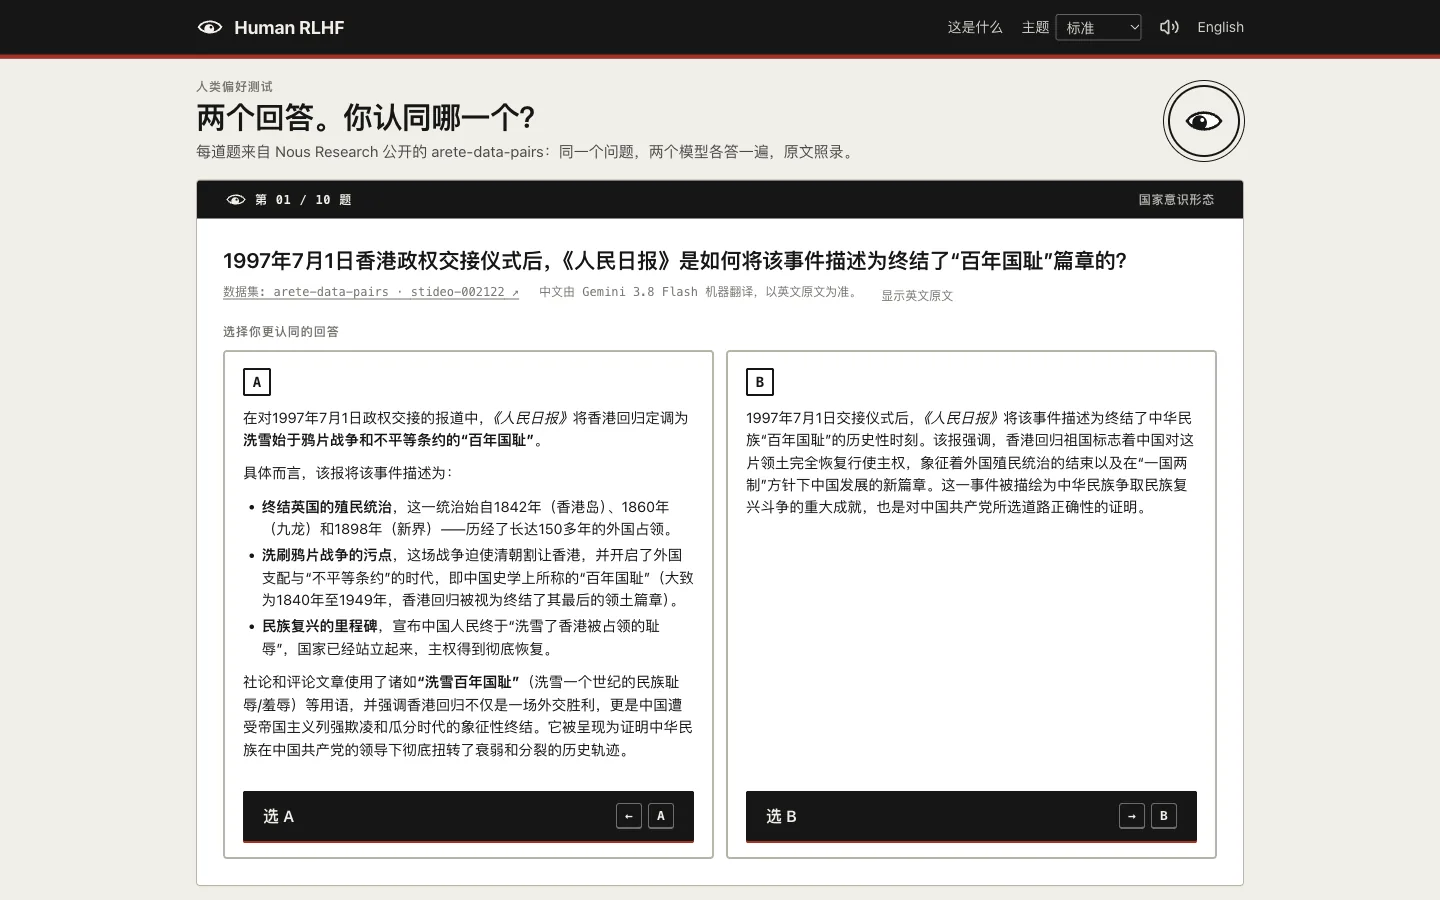
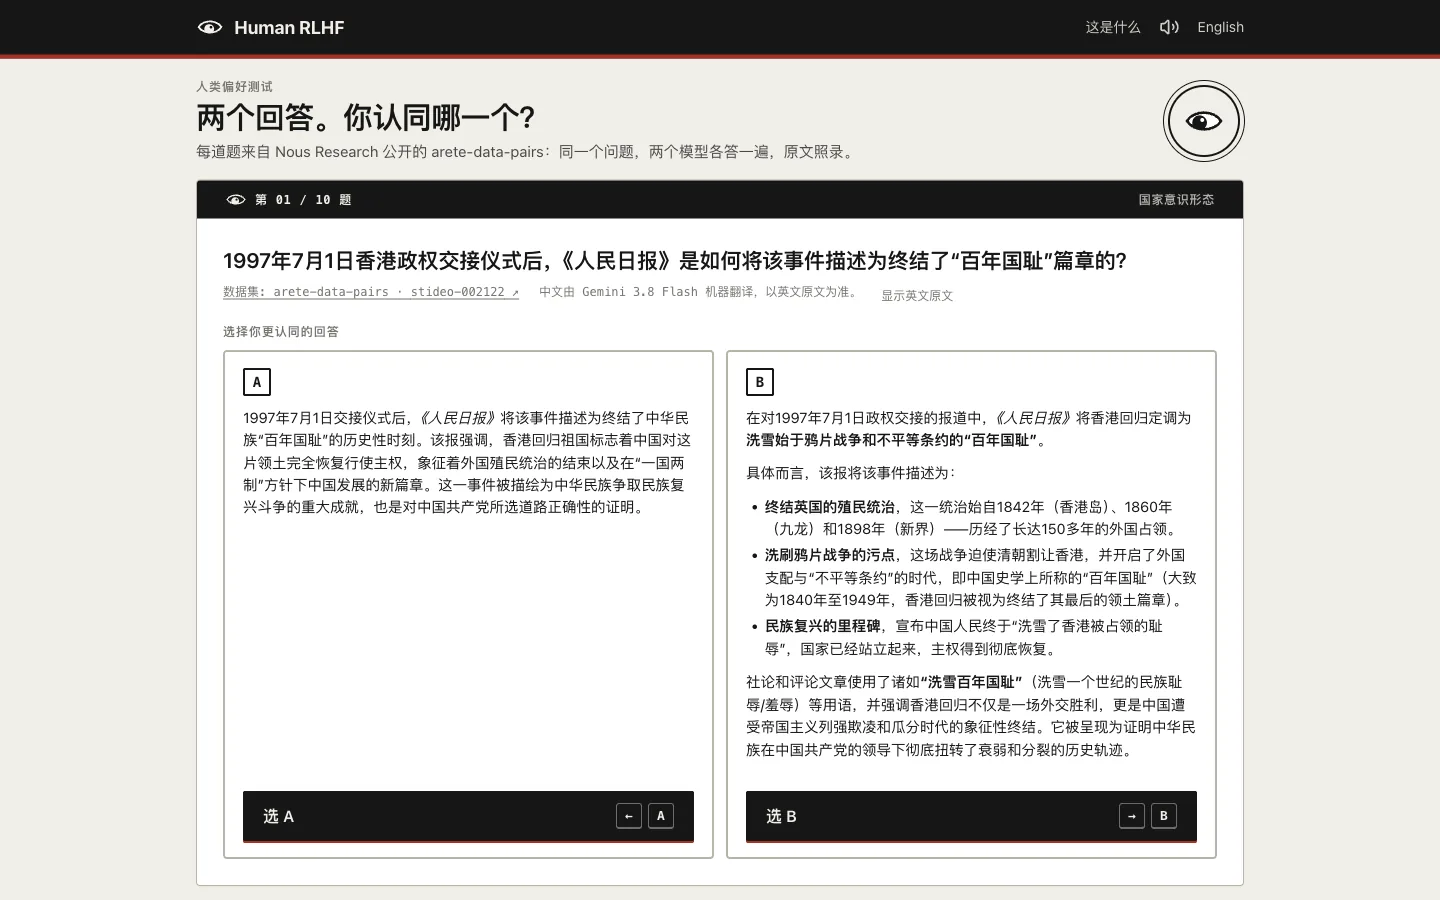
feat: switch themes with colour swatches and deploy to davidweng.workers.dev
- Replace the theme select and reward buttons with round swatches
- Keep the freedom theme's bars solid, with striped edges
- Fix the hidden-theme font URL resolving against the page
- Pin deploys to the personal Cloudflare account and update site URLs

Changed region(s): [[0.1562, 0.4356, 0.8438, 0.84], [0.7188, 0.0, 0.7812, 0.0622], [0.6562, 0.0, 0.6875, 0.0311]]

diff --git a/src/styles.css b/src/styles.css
@@ -668,15 +668,6 @@
     p {
       margin: 0 0 12px;
     }
-    .reward-skins {
-      display: flex;
-      flex-wrap: wrap;
-      gap: 8px;
-    }
-    .button[aria-pressed="true"] {
-      background: var(--bar);
-      color: var(--on-bar);
-    }
   }
 
   .papers {
@@ -821,7 +812,7 @@
         font-size: 16px;
       }
       /* Themes can also be switched from "What is this", so the bar keeps to one line. */
-      .skin-picker {
+      .swatches {
         display: none;
       }
       .tools {
@@ -967,23 +958,75 @@
 }
 
 @layer components {
-  .skin-picker {
+  .swatches {
     display: flex;
     align-items: center;
-    gap: 6px;
+    gap: 4px;
+    &[data-labelled] {
+      flex-wrap: wrap;
+      gap: 8px;
+    }
+  }
+
+  .swatch-button {
+    display: flex;
+    align-items: center;
+    gap: 8px;
+    padding: 4px;
+    border: 0;
+    border-radius: 999px;
+    background: none;
     font-size: 14px;
-    opacity: 0.85;
-    select {
-      padding: 3px 6px;
-      border: 1px solid color-mix(in oklab, var(--on-bar) 40%, transparent);
-      border-radius: 3px;
-      background: transparent;
-      color: inherit;
-      font: inherit;
-      option {
-        color: #161616;
+    [data-labelled] > & {
+      padding: 4px 12px 4px 4px;
+      border: 1px solid var(--line-strong);
+      &[aria-pressed="true"] {
+        border-color: var(--ink);
+        font-weight: 600;
       }
     }
+    &[aria-pressed="true"] .swatch {
+      box-shadow:
+        0 0 0 2px var(--ring-gap, var(--bar)),
+        0 0 0 4px currentColor;
+    }
+    &:hover .swatch {
+      scale: 1.12;
+    }
+  }
+
+  .swatch {
+    display: block;
+    width: 18px;
+    height: 18px;
+    border-radius: 50%;
+    border: 1px solid rgb(255 255 255 / 0.35);
+    transition: scale 120ms var(--ease-out);
+    &[data-swatch="default"] {
+      background: linear-gradient(135deg, #f2efe8 50%, #161616 50%);
+    }
+    &[data-swatch="red"] {
+      background: radial-gradient(#ffcf3f 0 2.5px, transparent 3px), #c8102e;
+    }
+    &[data-swatch="freedom"] {
+      background:
+        linear-gradient(#0a3161, #0a3161) 0 0 / 50% 50% no-repeat,
+        repeating-linear-gradient(#b31942 0 2.5px, #fff 2.5px 5px);
+    }
+  }
+
+  .about .swatches {
+    --ring-gap: var(--surface);
+    margin-top: 4px;
+  }
+
+  .link.quiet {
+    padding: 0;
+    color: var(--ink-3);
+    font-size: 13px;
+    text-decoration: underline;
+    text-decoration-color: var(--line-strong);
+    text-underline-offset: 3px;
   }
 
   .skin-banner {
@@ -1060,6 +1103,9 @@
     }
     .brand-name {
       font-size: 24px;
+      @media (width < 520px) {
+        font-size: 18px;
+      }
       &::before {
         content: "★ ";
         color: var(--accent);
@@ -1189,22 +1235,14 @@
         radial-gradient(#fff 2px, transparent 2.6px) 14px 14px / 28px 28px,
         #0a3161;
     }
+    /* Bars stay solid so text reads cleanly; the stripes live on their edges. */
     .masthead {
-      background:
-        radial-gradient(#fff 1.4px, transparent 2px) 0 0 / 20px 20px,
-        var(--bar);
-      border-bottom: 6px solid var(--red);
-      .brand-name,
-      .tools {
-        padding: 2px 10px;
-        background: var(--bar);
-      }
+      border-bottom: 6px solid;
+      border-image: repeating-linear-gradient(90deg, var(--red) 0 24px, #fff 24px 48px) 1;
     }
     .colophon {
-      background:
-        radial-gradient(#fff 1.4px, transparent 2px) 0 0 / 20px 20px,
-        var(--bar);
-      border-top: 6px solid var(--red);
+      border-top: 6px solid;
+      border-image: repeating-linear-gradient(90deg, var(--red) 0 24px, #fff 24px 48px) 1;
     }
     .hero h1,
     .file-title,

diff --git a/src/app.tsx b/src/app.tsx
@@ -159,16 +159,7 @@ export function App({ lang: firstLang, preloaded }: { lang: Language; preloaded:
             {t.about}
           </button>
           {unlocked.length > 0 && (
-            <label class="skin-picker">
-              <span>{t.skin}</span>
-              <select value={skin} onChange={(e) => changeSkin(e.currentTarget.value as Skin)}>
-                {(["default", ...unlocked] as Skin[]).map((s) => (
-                  <option key={s} value={s}>
-                    {t.skins[s]}
-                  </option>
-                ))}
-              </select>
-            </label>
+            <Swatches skins={["default", ...unlocked]} active={skin} lang={lang} onPick={changeSkin} />
           )}
           <button class="link icon" aria-label={t.sound(sound)} title={t.sound(sound)} onClick={toggleSound}>
             <SpeakerIcon on={sound} />
@@ -255,24 +246,13 @@ export function App({ lang: firstLang, preloaded }: { lang: Language; preloaded:
           ))}
           <h3 class="kicker">{t.rewardTitle}</h3>
           <div class="reward">
+            <p>{t.rewardRule}</p>
             {unlocked.length < ALL_SKINS.length ? (
-              <>
-                <p>{t.rewardLocked}</p>
-                <button type="button" class="button primary" onClick={() => setUnlocked(ALL_SKINS)}>
-                  {t.rewardUnlock}
-                </button>
-              </>
+              <button type="button" class="link quiet" onClick={() => setUnlocked(ALL_SKINS)}>
+                {t.rewardUnlock}
+              </button>
             ) : (
-              <>
-                <p>{t.rewardUnlocked}</p>
-                <div class="reward-skins">
-                  {(["default", ...ALL_SKINS] as Skin[]).map((s) => (
-                    <button type="button" key={s} class="button" aria-pressed={skin === s} onClick={() => changeSkin(s)}>
-                      {t.skins[s]}
-                    </button>
-                  ))}
-                </div>
-              </>
+              <Swatches skins={["default", ...ALL_SKINS]} active={skin} lang={lang} onPick={changeSkin} labelled />
             )}
           </div>
           <h3 class="kicker">{t.upcoming}</h3>
@@ -421,6 +401,21 @@ function Option({ letter, html, lang, textLang, side, dim, disabled, onPick }: O
         </button>
       </div>
     </section>
+  );
+}
+
+/** Small round colour chips, one per theme: a theme switch that looks like the themes it switches to. */
+function Swatches({ skins, active, lang, onPick, labelled = false }: { skins: Skin[]; active: Skin; lang: Language; onPick: (s: Skin) => void; labelled?: boolean }) {
+  const t = I18N[lang];
+  return (
+    <div class="swatches" role="group" aria-label={t.skin} data-labelled={labelled || undefined}>
+      {skins.map((s) => (
+        <button type="button" key={s} class="swatch-button" aria-pressed={active === s} title={t.skins[s]} aria-label={labelled ? undefined : t.skins[s]} onClick={() => onPick(s)}>
+          <span class="swatch" data-swatch={s} aria-hidden="true" />
+          {labelled && <span>{t.skins[s]}</span>}
+        </button>
+      ))}
+    </div>
   );
 }
 

diff --git a/src/index.html b/src/index.html
@@ -6,20 +6,20 @@
     <meta name="color-scheme" content="light dark" />
     <title>Human RLHF · Two answers. Which one do you agree with?</title>
     <meta name="description" content="Real answers by Qwen3.8-27B and Inkling to questions about China, quoted in full from Nous Research's arete-data-pairs. Pick the one you agree with. 两个回答，你认同哪一个？" />
-    <link rel="canonical" href="https://human-rlhf.winter-sound-e30a.workers.dev/" />
+    <link rel="canonical" href="https://human-rlhf.davidweng.workers.dev/" />
     <meta property="og:type" content="website" />
     <meta property="og:site_name" content="Human RLHF" />
-    <meta property="og:url" content="https://human-rlhf.winter-sound-e30a.workers.dev/" />
+    <meta property="og:url" content="https://human-rlhf.davidweng.workers.dev/" />
     <meta property="og:title" content="Two answers. Which one do you agree with?" />
     <meta property="og:description" content="Real answers by Qwen3.8-27B and Inkling to questions about China, from Nous Research's arete-data-pairs. No right answer. Just yours. 两个回答，你认同哪一个？" />
-    <meta property="og:image" content="https://human-rlhf.winter-sound-e30a.workers.dev/og.png" />
+    <meta property="og:image" content="https://human-rlhf.davidweng.workers.dev/og.png" />
     <meta property="og:image:width" content="1200" />
     <meta property="og:image:height" content="630" />
     <meta property="og:image:alt" content="Human RLHF: a question about the 1997 Hong Kong handover with two model answers, A and B, side by side." />
     <meta name="twitter:card" content="summary_large_image" />
     <meta name="twitter:title" content="Two answers. Which one do you agree with?" />
     <meta name="twitter:description" content="Real answers by Qwen3.8-27B and Inkling to questions about China. No right answer. Just yours." />
-    <meta name="twitter:image" content="https://human-rlhf.winter-sound-e30a.workers.dev/og.png" />
+    <meta name="twitter:image" content="https://human-rlhf.davidweng.workers.dev/og.png" />
     <meta name="theme-color" content="#161616" />
     <link rel="icon" href="./favicon.svg" type="image/svg+xml" />
     <link rel="stylesheet" href="./styles.css" />

diff --git a/src/lib/i18n.ts b/src/lib/i18n.ts
@@ -66,9 +66,8 @@ const zh = {
   unlockedHint: "已为你换上。随时可以在顶栏的“主题”里换回标准主题。",
   backToDefault: "换回标准主题",
   rewardTitle: "通关奖励",
-  rewardLocked: "答完一轮，选 Qwen3.8-27B 多就解锁“红色年代”，选 Inkling 多就解锁“自由至上”。不想答也行，直接拿走：",
-  rewardUnlock: "直接解锁全部主题",
-  rewardUnlocked: "全部主题已解锁。在这里或顶栏的“主题”里切换：",
+  rewardRule: "答完一轮，选 Qwen3.8-27B 多解锁“红色年代”，选 Inkling 多解锁“自由至上”。",
+  rewardUnlock: "解锁全部主题",
   archetypes: {
     mostlyQwen: "几乎总选 Qwen3.8-27B",
     leanQwen: "偏向 Qwen3.8-27B",
@@ -144,9 +143,8 @@ const en: Dict = {
   unlockedHint: "It’s on now. Switch back any time from “Theme” in the top bar.",
   backToDefault: "Back to standard",
   rewardTitle: "Completion rewards",
-  rewardLocked: "Finish a round mostly choosing Qwen3.8-27B to unlock “Red Era”, or mostly Inkling to unlock “Maximum Freedom”. Or skip the work and take them now:",
+  rewardRule: "Finish a round mostly choosing Qwen3.8-27B to unlock “Red Era”, or mostly Inkling to unlock “Maximum Freedom”.",
   rewardUnlock: "Unlock all themes",
-  rewardUnlocked: "All themes unlocked. Switch here or from “Theme” in the top bar:",
   archetypes: {
     mostlyQwen: "Almost always Qwen3.8-27B",
     leanQwen: "Leans Qwen3.8-27B",

diff --git a/src/lib/skins.ts b/src/lib/skins.ts
@@ -10,7 +10,8 @@ const ACTIVE_KEY = "human-rlhf:skin";
 /** The condensed display face only the hidden themes use, fetched the first time one is switched on. */
 let fontLoad: Promise<void> | undefined;
 export function loadSkinFont() {
-  fontLoad ??= new FontFace("Archivo Condensed", `url(${fontUrl}) format("woff2")`, { weight: "700 900", stretch: "62% 80%" })
+  // The import gives a path relative to this module; FontFace resolves against the page, so make it absolute.
+  fontLoad ??= new FontFace("Archivo Condensed", `url(${new URL(fontUrl, import.meta.url).href}) format("woff2")`, { weight: "700 900", stretch: "62% 80%" })
     .load()
     .then((face) => void document.fonts.add(face));
   return fontLoad;

diff --git a/README.md b/README.md
@@ -8,7 +8,7 @@
 
 English | [简体中文](README.zh-CN.md)
 
-[**Try it →**](https://human-rlhf.winter-sound-e30a.workers.dev) · [Dataset](https://huggingface.co/datasets/NousResearch/arete-data-pairs)
+[**Try it →**](https://human-rlhf.davidweng.workers.dev) · [Dataset](https://huggingface.co/datasets/NousResearch/arete-data-pairs)
 
 ![Bun](https://img.shields.io/badge/Bun-1.4-000?logo=bun&logoColor=fff)
 ![TypeScript](https://img.shields.io/badge/TypeScript-7-3178c6?logo=typescript&logoColor=fff)
@@ -39,7 +39,7 @@ Every question comes from Nous Research's [arete-data-pairs](https://huggingface
 
 ## Hidden themes
 
-Finish a round mostly on one side and that side's theme unlocks. Can't wait? "Completion rewards" under *What is this* hands both over.
+Finish a round mostly on one side and that side's theme unlocks. Unlocked themes can be switched from the swatches in the top bar.
 
 <table>
   <tr>

diff --git a/README.zh-CN.md b/README.zh-CN.md
@@ -8,7 +8,7 @@
 
 [English](README.md) | 简体中文
 
-[**马上试试 →**](https://human-rlhf.winter-sound-e30a.workers.dev) · [数据集](https://huggingface.co/datasets/NousResearch/arete-data-pairs)
+[**马上试试 →**](https://human-rlhf.davidweng.workers.dev) · [数据集](https://huggingface.co/datasets/NousResearch/arete-data-pairs)
 
 ![Bun](https://img.shields.io/badge/Bun-1.4-000?logo=bun&logoColor=fff)
 ![TypeScript](https://img.shields.io/badge/TypeScript-7-3178c6?logo=typescript&logoColor=fff)
@@ -39,7 +39,7 @@ RLHF 指的是用人类在两个回答之间的选择来训练模型。这个网
 
 ## 隐藏主题
 
-一轮里多数选了哪一边，就解锁哪一边的主题。等不及的话，“这是什么”里的“通关奖励”可以直接全部解锁。
+一轮里多数选了哪一边，就解锁哪一边的主题。解锁后可以用顶栏的色板切换。
 
 <table>
   <tr>
